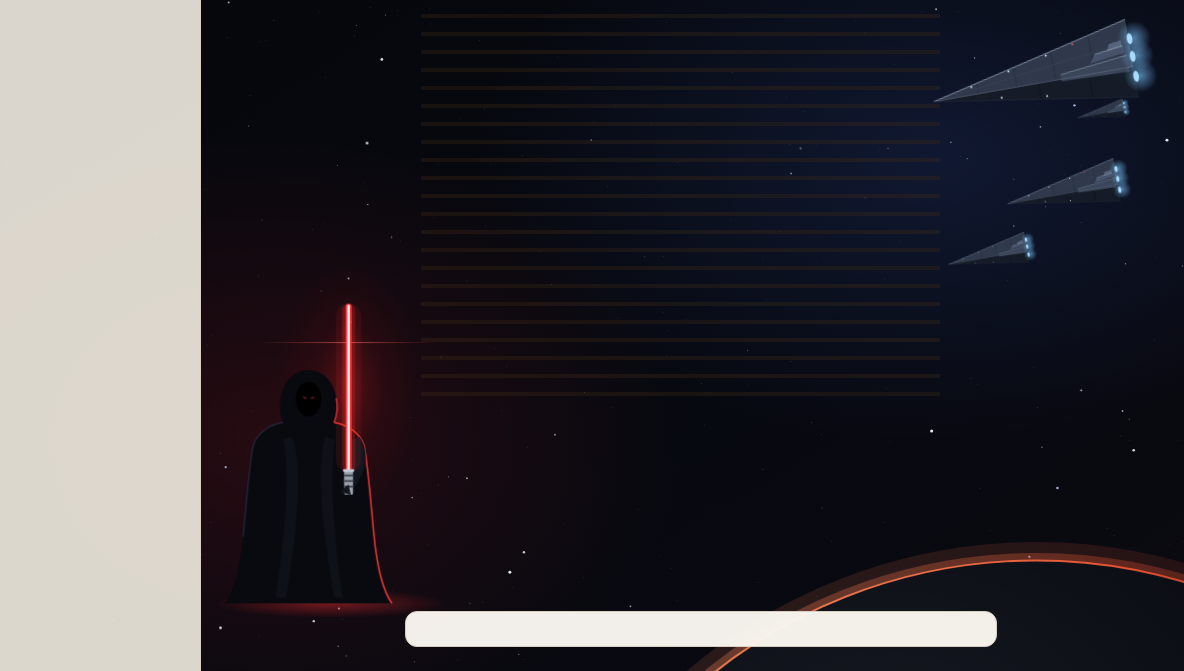
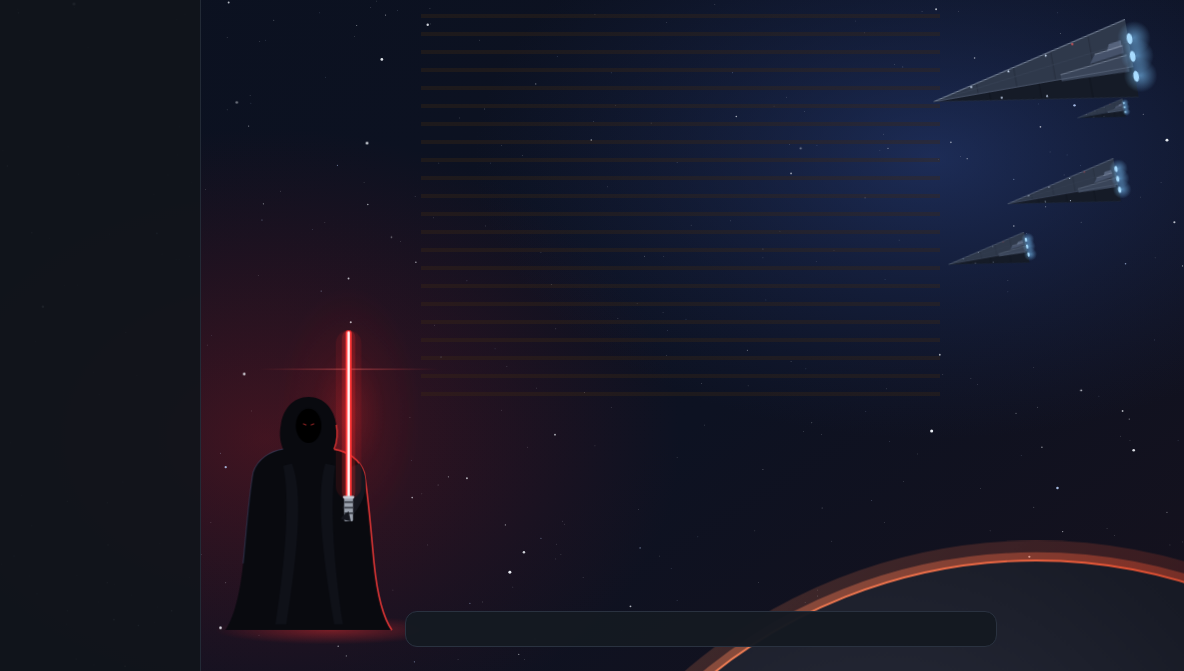
Brighten Dark fleet and lower the warrior
Navy sky, stronger red and blue nebulae, more and brighter stars, a lit planet
face and a thinner veil; light text stays at 5.5:1 or better over the
brightest spots. The warrior stands nearer the foot of the view.

diff --git a/hooks/looks/dark-fleet.ts b/hooks/looks/dark-fleet.ts
@@ -41,12 +41,12 @@ function stars(): string {
   const rand = (): number => (s = (s * 16807) % 2147483647) / 2147483647
   let out = ''
 
-  for (let i = 0; i < 300; i++) {
+  for (let i = 0; i < 380; i++) {
     const m = rand() ** 6 // few bright stars, many faint ones
     const fill = rand() < 0.2 ? '#bcd4ff' : '#eef2f8'
     const twinkle = m > 0.35 && i % 3 === 0 ? ` class="tw tw${i % 2}"` : ''
 
-    out += `<circle${twinkle} cx="${(rand() * W).toFixed(0)}" cy="${(rand() * H).toFixed(0)}" r="${(0.5 + m * 1.6).toFixed(2)}" fill="${fill}" opacity="${(0.3 + m * 0.7).toFixed(2)}"/>`
+    out += `<circle${twinkle} cx="${(rand() * W).toFixed(0)}" cy="${(rand() * H).toFixed(0)}" r="${(0.5 + m * 1.6).toFixed(2)}" fill="${fill}" opacity="${(0.45 + m * 0.55).toFixed(2)}"/>`
   }
 
   return out
@@ -120,8 +120,8 @@ ${[-232, -222, -212].map(y => `<rect x="64" y="${y}" width="16" height="3" fill=
 // A dark planet seen from orbit, its rim lit red-orange, drawn from the group's origin at the
 // bottom-right corner of the view.
 const PLANET = `
-<circle cx="-200" cy="560" r="712" fill="none" stroke="url(#rim)" stroke-width="26" opacity="0.14"/>
-<circle cx="-200" cy="560" r="705" fill="none" stroke="url(#rim)" stroke-width="10" opacity="0.32"/>
+<circle cx="-200" cy="560" r="712" fill="none" stroke="url(#rim)" stroke-width="30" opacity="0.2"/>
+<circle cx="-200" cy="560" r="705" fill="none" stroke="url(#rim)" stroke-width="12" opacity="0.42"/>
 <circle cx="-200" cy="560" r="700" fill="url(#planet)"/>
 <circle cx="-200" cy="560" r="700" fill="none" stroke="url(#rim)" stroke-width="2.5"/>`
 
@@ -143,7 +143,7 @@ function place(a: number, tallestA: number): string {
   const top = (H - shown) / 2
   const bottom = top + shown
   const s = Math.min(1, Math.max(0.55, 0.45 + (v / W) * 0.55))
-  const feet = Math.min(862, bottom - 22)
+  const feet = Math.min(898, bottom - 10)
   const warriorX = a >= 0.8 ? left + v * 0.19 + WARRIOR_HALF * s : left + v * 0.05 + WARRIOR_HALF * s
   const f = (n: number): string => n.toFixed(0)
 
@@ -163,16 +163,16 @@ const LAYOUT = [
 const SCENE = `<svg xmlns="http://www.w3.org/2000/svg" viewBox="0 0 ${W} ${H}" preserveAspectRatio="xMidYMid slice">
 <defs>
   <linearGradient id="sky" x1="0" y1="0" x2="1" y2="1">
-    <stop offset="0" stop-color="#05070c"/>
-    <stop offset="0.6" stop-color="#070910"/>
-    <stop offset="1" stop-color="#0b0a10"/>
+    <stop offset="0" stop-color="#0b1120"/>
+    <stop offset="0.6" stop-color="#0d1222"/>
+    <stop offset="1" stop-color="#16111c"/>
   </linearGradient>
   <radialGradient id="neb-red" cx="50%" cy="50%" r="50%">
-    <stop offset="0" stop-color="#6a1018" stop-opacity="0.32"/>
+    <stop offset="0" stop-color="#8a1820" stop-opacity="0.42"/>
     <stop offset="1" stop-color="#6a1018" stop-opacity="0"/>
   </radialGradient>
   <radialGradient id="neb-blue" cx="50%" cy="50%" r="50%">
-    <stop offset="0" stop-color="#1c2c5c" stop-opacity="0.45"/>
+    <stop offset="0" stop-color="#2a4282" stop-opacity="0.55"/>
     <stop offset="1" stop-color="#1c2c5c" stop-opacity="0"/>
   </radialGradient>
   <radialGradient id="engine-glow" cx="50%" cy="50%" r="50%">
@@ -194,9 +194,9 @@ const SCENE = `<svg xmlns="http://www.w3.org/2000/svg" viewBox="0 0 ${W} ${H}" p
     <stop offset="1" stop-color="#ff4a4a" stop-opacity="0"/>
   </linearGradient>
   <radialGradient id="planet" cx="35%" cy="30%" r="75%">
-    <stop offset="0" stop-color="#1a1c26"/>
-    <stop offset="0.5" stop-color="#0d0f16"/>
-    <stop offset="1" stop-color="#06070b"/>
+    <stop offset="0" stop-color="#2c2f3e"/>
+    <stop offset="0.5" stop-color="#181b26"/>
+    <stop offset="1" stop-color="#0c0e15"/>
   </radialGradient>
   <linearGradient id="rim" x1="0" y1="0" x2="1" y2="1">
     <stop offset="0" stop-color="#ffb07a"/>
@@ -238,7 +238,7 @@ export const darkFleet: Look = {
   problems,
   theme: {
     colors: theme,
-    backdrop: { scene: 'dark-fleet', glass: { blur: 0, tint: '#05070a', opacity: 0.35 } },
+    backdrop: { scene: 'dark-fleet', glass: { blur: 0, tint: '#05070a', opacity: 0.3 } },
   },
   scenes: {
     'dark-fleet': {
